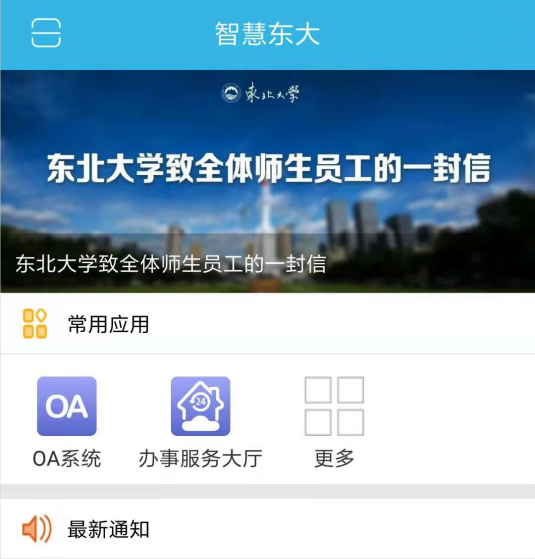
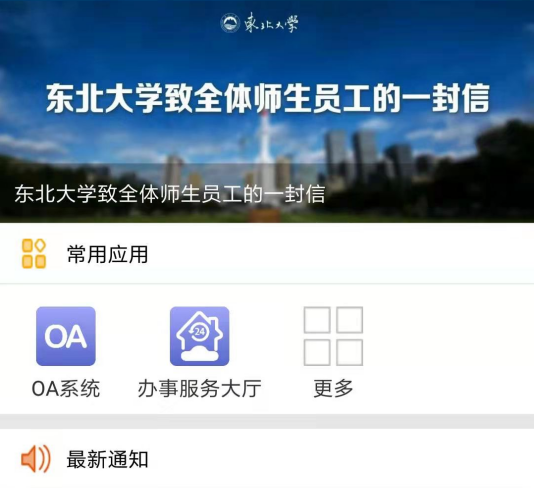
adjust home topbar styles

diff --git a/pages/preview/preview.js b/pages/preview/preview.js
@@ -25,7 +25,7 @@ Page({
     let mm = parseInt(date.getMinutes()) < 10 ? '0' + date.getMinutes() : date.getMinutes()
     let ss = parseInt(date.getSeconds()) < 10 ? '0' + date.getSeconds() : date.getSeconds()
     this.setData({
-      currentTime: `${YY}-${++MM}-${DD} ${hh}:${mm}:${ss}`
+      currentTime: `${YY}-${MM}-${DD} ${hh}:${mm}:${ss}`
     })
   }
 })

diff --git a/pages/home/home.js b/pages/home/home.js
@@ -25,6 +25,6 @@ Page({
       this.setData({
         placeholderFigureVisible: false
       })
-    }, 2000)
+    }, 3000)
   }
 })
